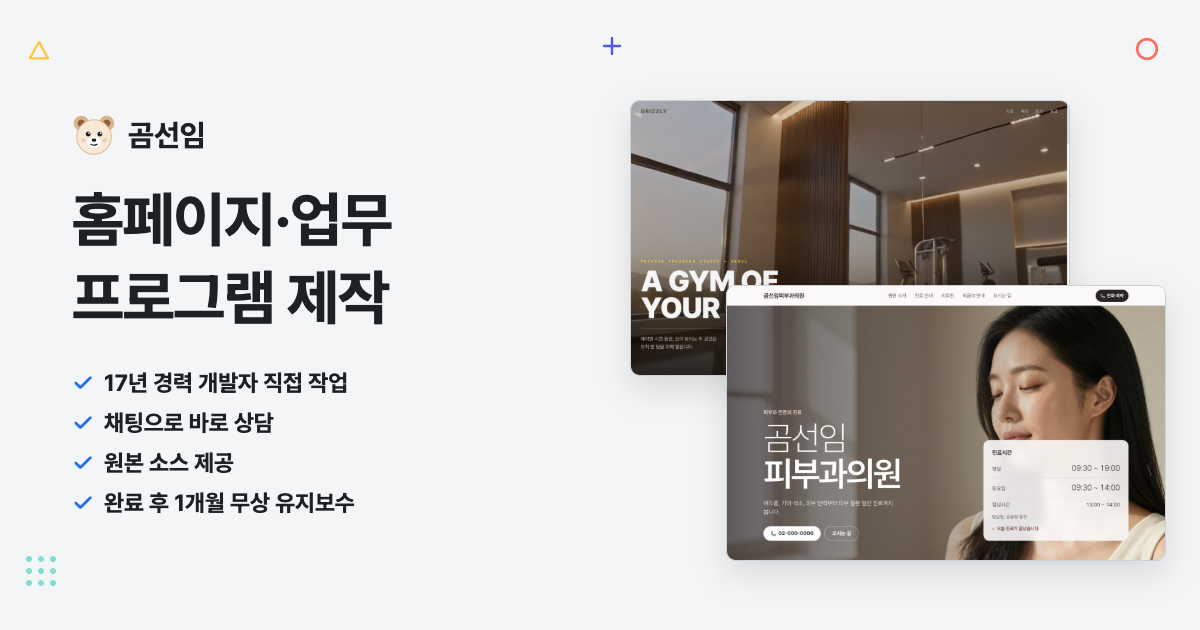
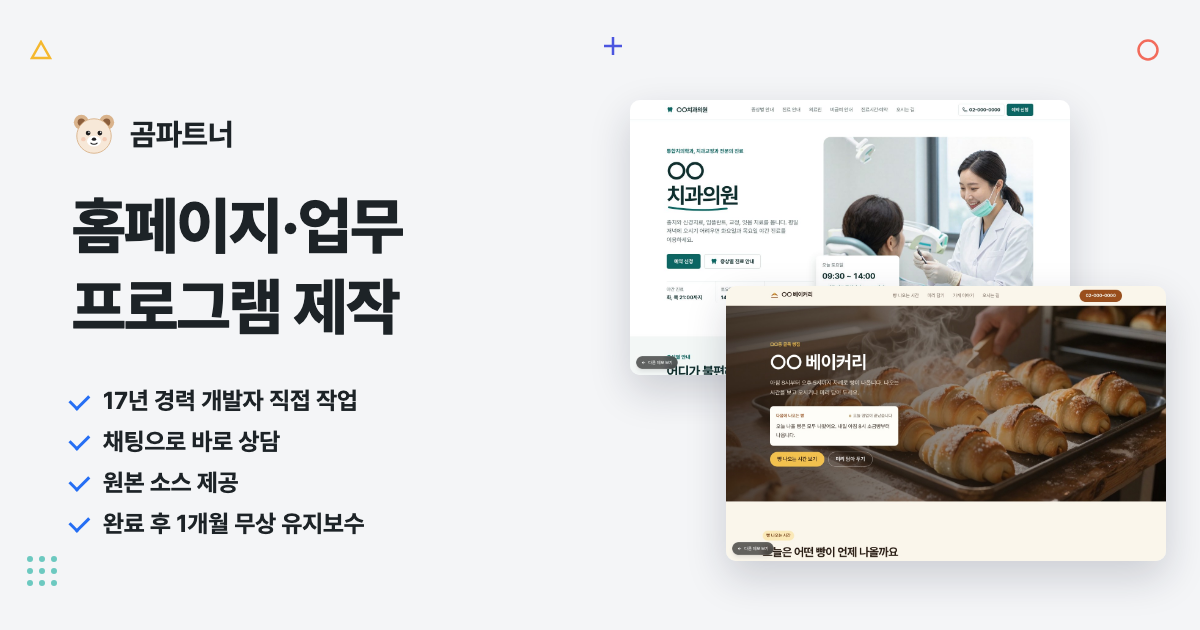
브랜드 이름을 곰파트너로 변경

diff --git a/components/tools/TermsGenerator.tsx b/components/tools/TermsGenerator.tsx
@@ -622,11 +622,11 @@ export function TermsGenerator() {
         <div className="mt-6 grid gap-4 sm:grid-cols-2">
           <label className={label}>
             회사·상호명 <span className="text-[#b42318]">*</span>
-            <input value={form.company} onChange={(e) => set("company", e.target.value)} placeholder="예: 곰선임상회" className={input} />
+            <input value={form.company} onChange={(e) => set("company", e.target.value)} placeholder="예: 곰파트너상회" className={input} />
           </label>
           <label className={label}>
             사이트 이름 <span className="text-[#b42318]">*</span>
-            <input value={form.siteName} onChange={(e) => set("siteName", e.target.value)} placeholder="예: 곰선임몰" className={input} />
+            <input value={form.siteName} onChange={(e) => set("siteName", e.target.value)} placeholder="예: 곰파트너몰" className={input} />
           </label>
           <label className={label}>
             사이트 주소

diff --git a/components/tools/SearchPreview.tsx b/components/tools/SearchPreview.tsx
@@ -40,7 +40,7 @@ const ENGINES = {
 type Fields = { name: string; region: string; industry: string; url: string; strengths: string; title: string; desc: string };
 
 const EXAMPLE: Fields = {
-  name: "곰선임치과의원",
+  name: "곰파트너치과의원",
   region: "강남역",
   industry: "치과",
   url: "https://www.example.co.kr",
@@ -128,7 +128,7 @@ export function SearchPreview() {
           <legend className="w-full border-b-2 border-foreground pb-2 text-[19px] font-bold">가게 정보</legend>
           <label className="block text-[16px] font-bold">
             상호
-            <input value={f.name} onChange={set("name")} className={input} placeholder="곰선임치과의원" />
+            <input value={f.name} onChange={set("name")} className={input} placeholder="곰파트너치과의원" />
           </label>
           <div className="grid grid-cols-2 gap-3">
             <label className="block text-[16px] font-bold">

diff --git a/components/tools/PrivacyPolicyGenerator.tsx b/components/tools/PrivacyPolicyGenerator.tsx
@@ -461,11 +461,11 @@ export function PrivacyPolicyGenerator() {
         <div className="mt-6 grid gap-4 sm:grid-cols-2">
           <label className={label}>
             회사·상호명 <span className="text-[#b42318]">*</span>
-            <input value={form.company} onChange={(e) => set("company", e.target.value)} placeholder="예: 곰선임상회" className={input} />
+            <input value={form.company} onChange={(e) => set("company", e.target.value)} placeholder="예: 곰파트너상회" className={input} />
           </label>
           <label className={label}>
             사이트 이름
-            <input value={form.siteName} onChange={(e) => set("siteName", e.target.value)} placeholder="예: 곰선임몰" className={input} />
+            <input value={form.siteName} onChange={(e) => set("siteName", e.target.value)} placeholder="예: 곰파트너몰" className={input} />
           </label>
         </div>
 

diff --git a/prototypes/gsap-landing.html b/prototypes/gsap-landing.html
@@ -3,7 +3,7 @@
 <head>
 <meta charset="UTF-8" />
 <meta name="viewport" content="width=device-width, initial-scale=1.0" />
-<title>곰선임 — GSAP 랜딩 프로토타입</title>
+<title>곰파트너 — GSAP 랜딩 프로토타입</title>
 <link rel="stylesheet" href="https://cdn.jsdelivr.net/gh/orioncactus/pretendard@v1.3.9/dist/web/variable/pretendardvariable-dynamic-subset.min.css" />
 <style>
   :root {
@@ -434,7 +434,7 @@
   </section>
 </main>
 
-<footer>© 2026 곰선임 — GSAP 인터랙션 프로토타입</footer>
+<footer>© 2026 곰파트너 — GSAP 인터랙션 프로토타입</footer>
 
 <script src="https://cdn.jsdelivr.net/npm/gsap@3.12.5/dist/gsap.min.js"></script>
 <script src="https://cdn.jsdelivr.net/npm/gsap@3.12.5/dist/ScrollTrigger.min.js"></script>

diff --git a/app/layout.tsx b/app/layout.tsx
@@ -60,7 +60,7 @@ export const metadata: Metadata = {
     description: siteDescription,
     images: [
       {
-        url: "/og-image.png?v=20261001",
+        url: "/og-image.png?v=20261003",
         width: 1200,
         height: 630,
         alt: `${profile.name} 홈페이지·업무 프로그램 제작`,
@@ -71,7 +71,7 @@ export const metadata: Metadata = {
     card: "summary_large_image",
     title: siteTitle,
     description: siteDescription,
-    images: ["/og-image.png?v=20261001"],
+    images: ["/og-image.png?v=20261003"],
   },
   verification: {
     other: { "naver-site-verification": "1c5242ef5ddbce4e807bad7225bb0770a1cb06c1" },

diff --git a/app/(site)/page.tsx b/app/(site)/page.tsx
@@ -16,7 +16,7 @@ import { formatWon, planByProject, plans } from "@/data/pricing";
 // 최대 폭 1200px, 화면 여백 16/24px, 버튼·입력 radius 6px, 카드 10px.
 
 export const metadata: Metadata = {
-  // 루트 템플릿(`%s | 곰선임`)이 브랜드를 또 붙이지 않도록 absolute 사용
+  // 루트 템플릿(`%s | 곰파트너`)이 브랜드를 또 붙이지 않도록 absolute 사용
   title: {
     absolute: `홈페이지·업무 프로그램 제작 | ${profile.name}`,
   },

diff --git a/data/profile.ts b/data/profile.ts
@@ -1,8 +1,8 @@
 import type { Profile } from "@/lib/types";
 
 export const profile: Profile = {
-  name: "곰선임",
-  nameEn: "Gom Senior",
+  name: "곰파트너",
+  nameEn: "Gom Partner",
   title: "17년 차 1인 웹 개발자",
   bio: "17년 경력의 1인 웹 개발자입니다. 홈페이지 구축, 기존 시스템 고도화, 유지보수, 업무 프로그램을 직접 작업합니다.",
   location: "재택 · 온라인 미팅",
